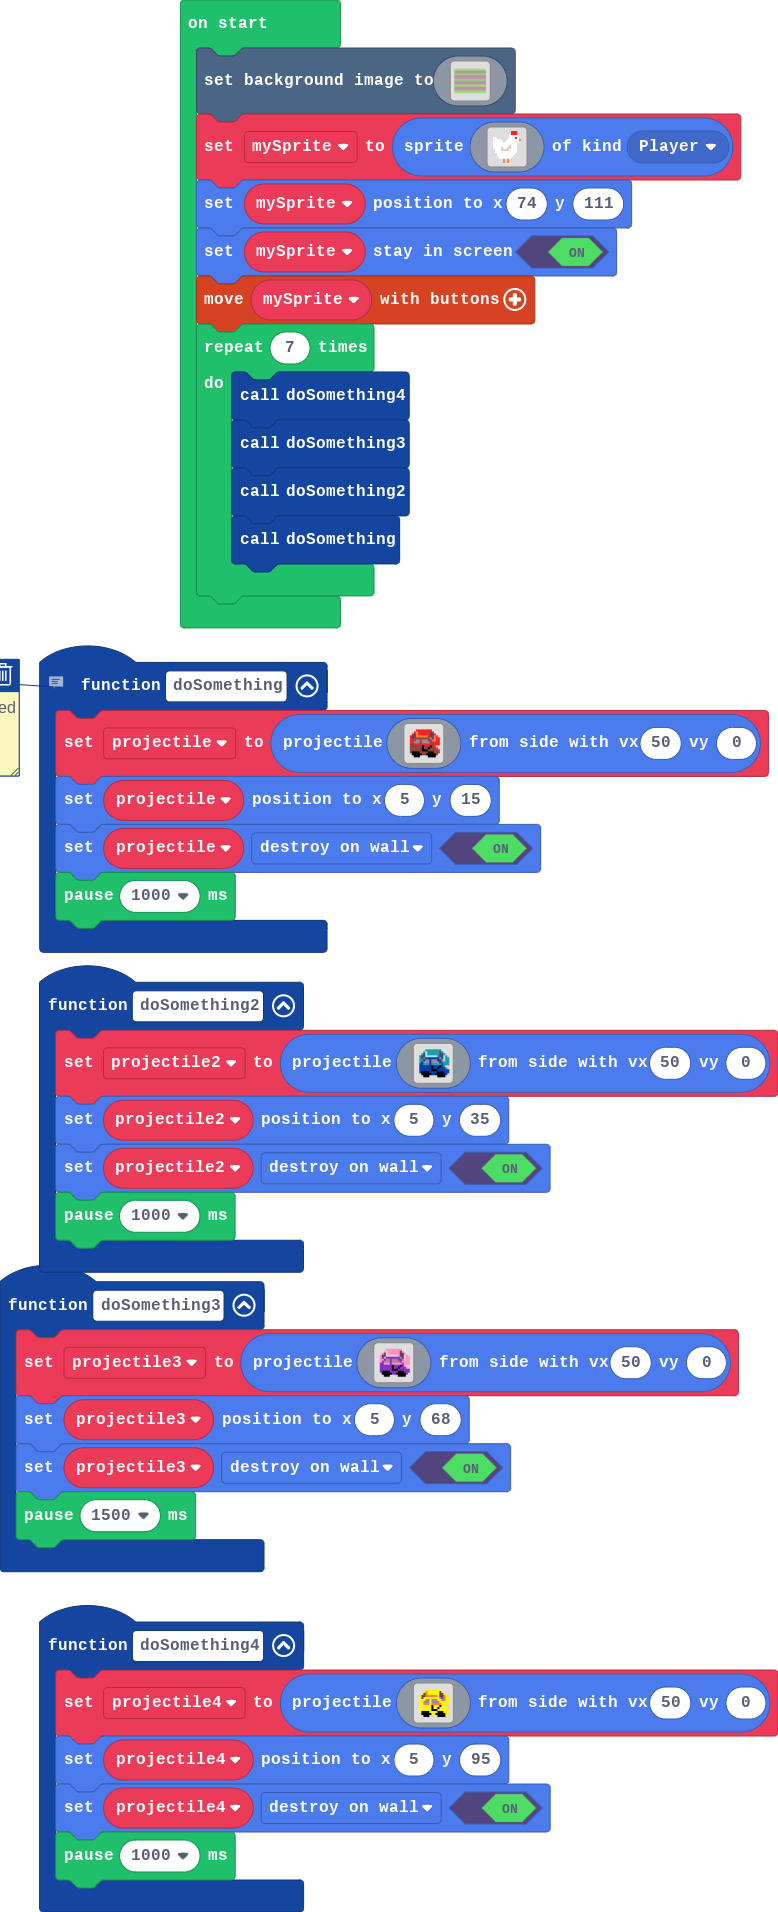
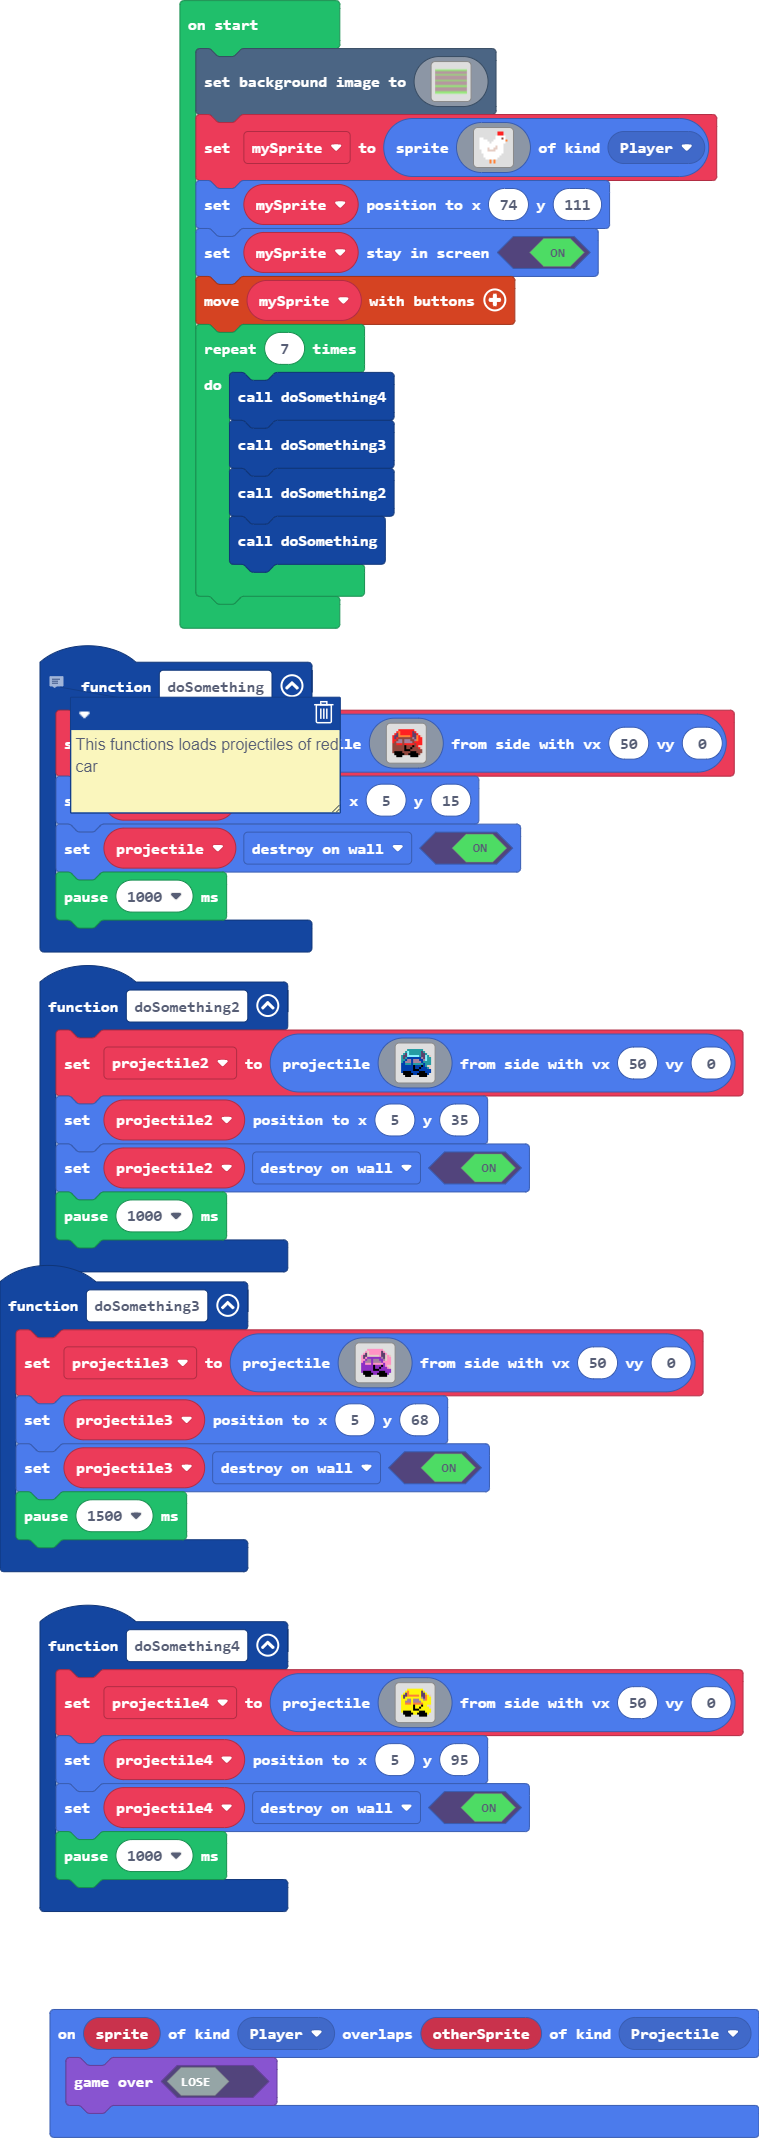
Update pxt.json, main.blocks, main.ts

diff --git a/main.ts b/main.ts
@@ -21,6 +21,9 @@ function doSomething3 () {
     projectile3.setFlag(SpriteFlag.DestroyOnWall, true)
     pause(1500)
 }
+sprites.onOverlap(SpriteKind.Player, SpriteKind.Projectile, function (sprite, otherSprite) {
+    game.gameOver(false)
+})
 // This functions loads projectiles of red car
 function doSomething () {
     projectile = sprites.createProjectileFromSide(img`
